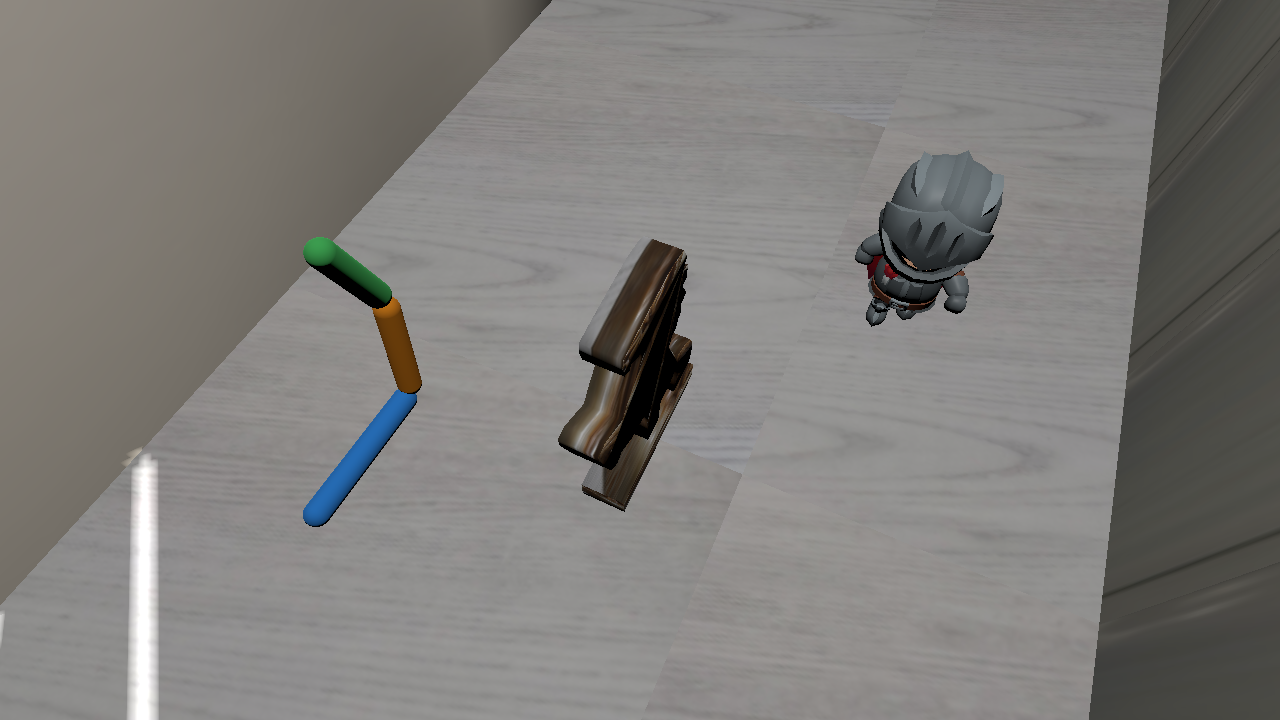
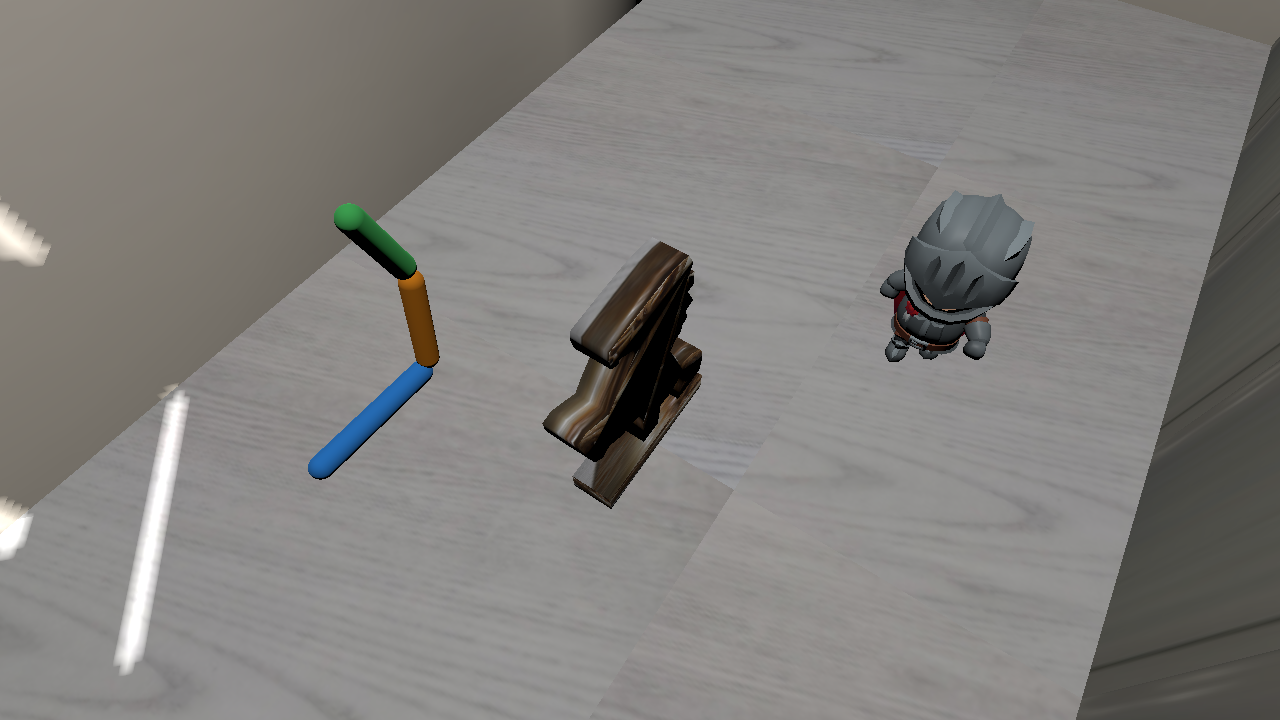
Kamera Godot kini memutari patung penuh tanpa bolak-balik dengan jalur tertutup yang sama dengan hitungan Python, dan sudah menghadap patung sejak frame pertama

diff --git a/Module4/build/web/index.html b/Module4/build/web/index.html
@@ -111,7 +111,7 @@ body {
 
 		<script src="index.js"></script>
 		<script>
-const GODOT_CONFIG = {"args":[],"canvasResizePolicy":2,"emscriptenPoolSize":8,"ensureCrossOriginIsolationHeaders":true,"executable":"index","experimentalVK":false,"fileSizes":{"index.pck":1567032,"index.wasm":39514754},"focusCanvas":true,"gdextensionLibs":[],"godotPoolSize":4};
+const GODOT_CONFIG = {"args":[],"canvasResizePolicy":2,"emscriptenPoolSize":8,"ensureCrossOriginIsolationHeaders":true,"executable":"index","experimentalVK":false,"fileSizes":{"index.pck":1567544,"index.wasm":39514754},"focusCanvas":true,"gdextensionLibs":[],"godotPoolSize":4};
 const GODOT_THREADS_ENABLED = false;
 const engine = new Engine(GODOT_CONFIG);
 

diff --git a/Module4/Source/godot_check.py b/Module4/Source/godot_check.py
@@ -23,7 +23,7 @@ from fk import Bone, forward_kinematics
 from ik import solve_two_bone_ik
 from my_chain import load_chain
 from quaternion import euler_to_matrix, mat_max_diff
-from spline import load_camera_path, load_my_path, sample_path
+from spline import load_camera_path, load_my_path, sample_closed_path, sample_path
 
 TOL_FLOAT64 = 1e-9
 TOL_BASIS = 1e-5
@@ -86,11 +86,16 @@ def check_line(line):
     if tag == "CURVE":
         pts = [tuple(float(v) for v in p.split(",")) for p in f["points"].split(";")]
         cps = load_my_path() if f["file"] == "my_path.json" else load_camera_path()
-        want = sample_path(cps, samples_per_segment=10)
+        if f.get("closed") == "true":
+            want = sample_closed_path(cps, samples_per_segment=10)
+            want.append(want[0])  # Godot repeats point 0 to close the polyline
+        else:
+            want = sample_path(cps, samples_per_segment=10)
         if len(pts) != len(want):
             return f"kurva {f['file']}: {len(pts)} titik, Python {len(want)}", 1.0, TOL_BASIS
         diff = max(math.dist(a, b) for a, b in zip(pts, want))
-        return f"kurva {f['file']}: {len(pts)} titik vs spline.py", diff, TOL_BASIS
+        kind = "tertutup" if f.get("closed") == "true" else "terbuka"
+        return f"kurva {f['file']} ({kind}): {len(pts)} titik vs spline.py", diff, TOL_BASIS
     if tag == "MYARM":
         joints = [tuple(float(v) for v in p.split(",")) for p in f["joints"].split(";")]
         bones, data = load_chain()

diff --git a/Module4/Source/tests.py b/Module4/Source/tests.py
@@ -321,6 +321,12 @@ def test_godot_check_parser():
     check("godot_check: locked shoulder (arm stays level) passes", diff <= tol, True)
     _, diff, tol = check_line(lock.replace("arm_dir_max_abs_y=0.000000060", "arm_dir_max_abs_y=0.3"))
     check("godot_check: a shoulder that can still lift the arm at pitch 90 is flagged", diff > tol, True)
+    loop = sample_closed_path(load_my_path(), samples_per_segment=10) + [load_my_path()[0]]
+    curve = "CURVE file=my_path.json closed=true points=" + ";".join(",".join(f"{v:.6f}" for v in p) for p in loop)
+    _, diff, tol = check_line(curve)
+    check("godot_check: closed camera curve (61 points, ends on point 0) matches spline.py", diff <= tol, True)
+    _, diff, tol = check_line(curve.replace("closed=true", "closed=false"))
+    check("godot_check: the same closed curve read as an open one is flagged", diff > tol, True)
     _, diff, tol = check_line("RIG_INTERP t=0.5000 euler_angle=60.000000 slerp_angle=60.000000 between=0")
     check("godot_check: an Euler blend claiming the slerp angle at t=0.5 is flagged", diff > tol, True)
 

diff --git a/Module4/docs/catatan/fase5-godot-scene.md b/Module4/docs/catatan/fase5-godot-scene.md
@@ -422,3 +422,27 @@ Tapi setiap kesalahan yang saya temukan di Fase 5 bukan kesalahan engine. Semuan
 - **Jalur kamera (T8).** `Curve3D` dari sampel tanpa handle hanyalah garis-garis lurus pendek, dan jalur saya terbuka, jadi saya sendiri yang harus memilih kamera bolak-balik supaya tidak meloncat.
 
 Kesimpulan saya: engine menghemat pekerjaan menghitung, tetapi tidak menghemat pekerjaan memutuskan. Bagian yang paling sering salah justru bagian yang tampak "sudah diurus engine", dan satu-satunya cara saya menemukannya adalah mencetak angka dari Godot lalu membandingkannya dengan Python.
+
+## 13. Tambahan 31 Oktober 2026: kamera memutari patung penuh
+
+Di bagian 5, kamera harus bolak-balik (`ping_pong`) karena jalur saya terbuka. Setelah `spline.py` punya Catmull-Rom tertutup (catatan Fase 3, tambahan 31 Oktober), kamera Godot saya ubah supaya memakainya:
+
+- `spline_camera.gd` punya pilihan baru `closed_loop`. Kurvanya disampel dengan rumus yang sama dengan `sample_closed_path()`, yaitu segmen ke-i memakai titik i-1, i, i+1, dan i+2 secara melingkar. Titik ke-0 ditambahkan sekali lagi di akhir supaya polyline-nya berakhir di tempat awalnya.
+- Di `Main.tscn`, `closed_loop = true`, `ping_pong` dimatikan, dan `PathFollow3D.loop = true`. Kamera sekarang berputar terus satu arah, satu putaran per 16 detik.
+- `look_at` juga dipanggil di `_ready`. Sebelumnya kamera baru menghadap patung setelah `_process` pertamanya, sehingga di frame pertama arah pandangnya meleset (dot 0,5547).
+
+Bukti:
+
+```
+$ $GODOT --headless --path godot_project --quit-after 60 | .venv/bin/python godot_check.py
+[ok] kurva my_path.json (tertutup): 61 titik vs spline.py: selisih 2.78e-16 (toleransi 1e-05)
+13 baris dibandingkan, 0 di atas toleransinya
+```
+
+Di salinan proyek, sebuah script pemeriksa mengikuti kamera selama 34 detik dengan waktu frame sungguhan:
+- kamera memutari patung 2,13 kali, sesuai 34 / 16;
+- dot antara arah pandang kamera dan arah ke patung tidak pernah di bawah 1,000000 di frame mana pun;
+- loncatan terbesar antar frame 1,5 cm, terjadi di frame awal yang lambat saat game baru dimuat (kecepatan kamera sekitar 0,23 m/s). Tidak ada teleport dari titik akhir ke titik awal;
+- jarak terdekat ke dinding atau lemari tetap 0,215 m.
+
+Build Web diekspor ulang. Dari server lokal `127.0.0.1:8000`, Chrome tanpa jendela tidak mencatat error, dan kurva tertutup yang dicetak di console browser cocok dengan Python. Screenshot di `docs/img/` juga diambil ulang dengan kamera yang baru.
